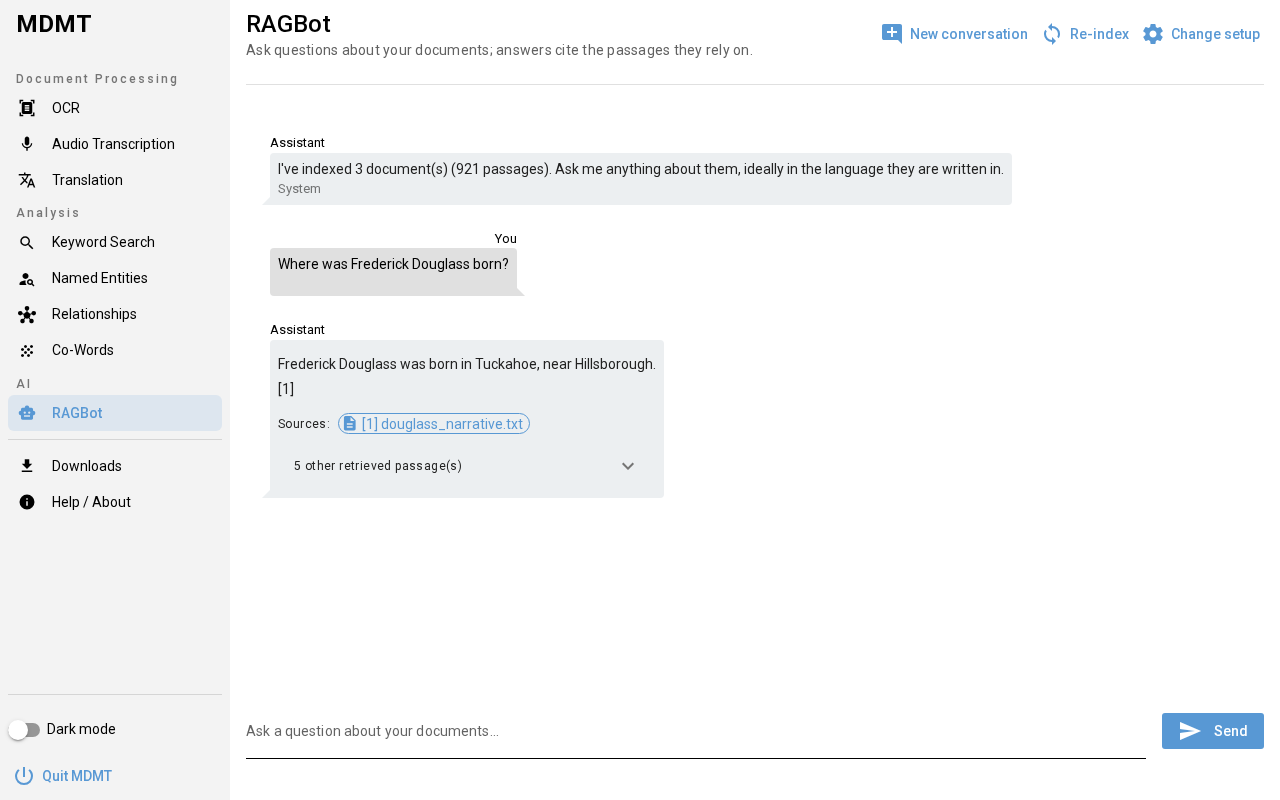
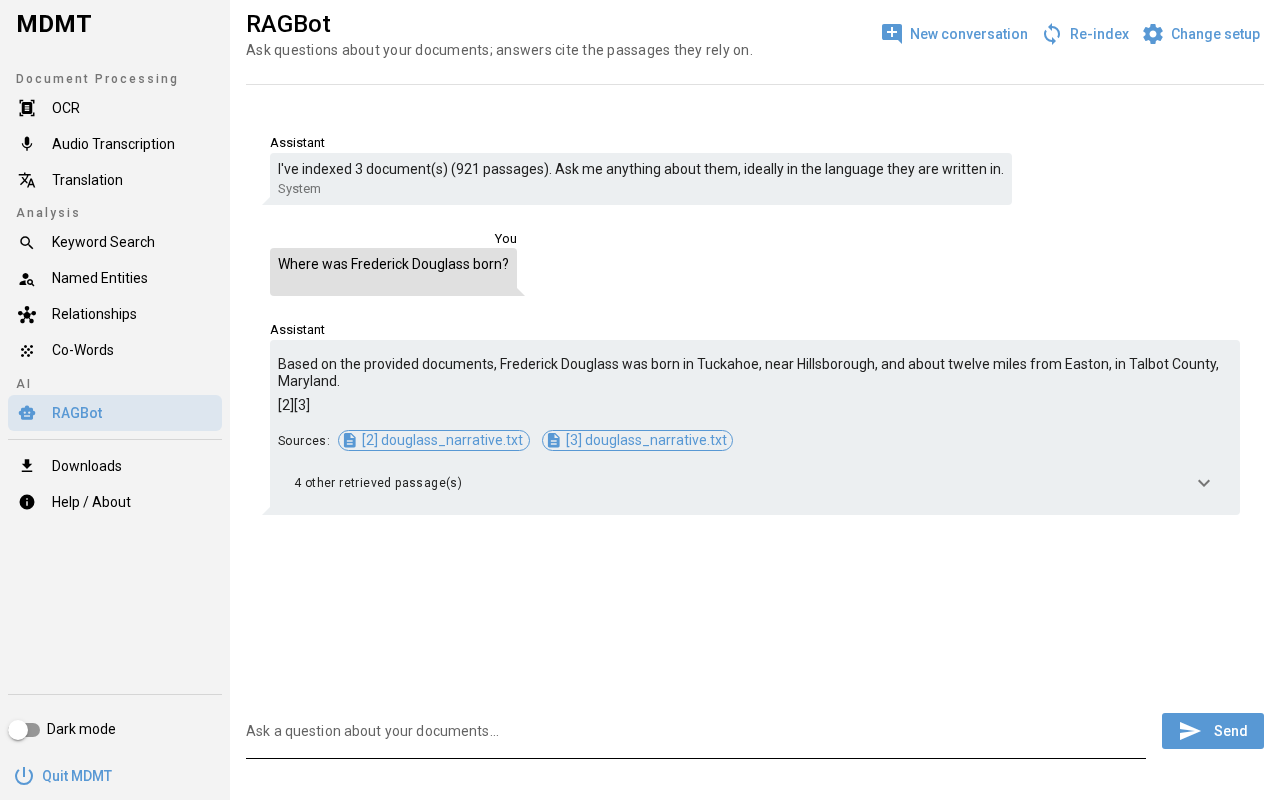
docs: describe the 2B and 4B chat models; README GIF recorded with 2B

Changed region(s): [[0.2188, 0.4375, 0.9688, 0.625]]

diff --git a/pages/about.py b/pages/about.py
@@ -304,9 +304,10 @@ Nothing leaves your computer.
   complex questions.
 - Ask in the language of your documents. A question in another language
   (English about a French text, say) often misses the right passages.
-- The 0.8B model is fast but often gets details wrong. If your computer can
-  run them, the 2B and 4B models from the **Downloads** page answer more
-  accurately.
+- Two chat models are offered. **2B** (1.28 GB) suits any computer from the
+  last few years and runs well without a GPU.
+  **4B** (2.74 GB) is somewhat more accurate but needs a GPU to be quick;
+  MDMT recommends it when it finds one.
         """)
 
     # License
@@ -348,7 +349,7 @@ Nothing leaves your computer.
 |---|---|---|
 | Whisper tiny/base/small/medium, CTranslate2 conversions | MIT | [Systran on Hugging Face](https://huggingface.co/Systran) |
 | Tesseract language data (`tessdata`) | Apache-2.0 | [GitHub](https://github.com/tesseract-ocr/tessdata) |
-| Qwen 3.5 GGUF (0.8B / 2B / 4B) | Apache-2.0 | [unsloth on Hugging Face](https://huggingface.co/unsloth) |
+| Qwen 3.5 GGUF (2B / 4B) | Apache-2.0 | [unsloth on Hugging Face](https://huggingface.co/unsloth) |
 | Argos Translate models (one per language pair) | Varies by model: 59 of 100 state CC-BY 4.0 (derived from OPUS-MT); the rest cite their OPUS training data or state no license. See each model's README. | [Argos Translate](https://github.com/argosopentech/argos-translate) |
 | multilingual-e5-small, ONNX export (RAG retrieval) | MIT | [Hugging Face](https://huggingface.co/intfloat/multilingual-e5-small) |
 | bge-reranker-v2-m3, ONNX export (RAG reranking, optional) | Apache-2.0 | [Hugging Face](https://huggingface.co/BAAI/bge-reranker-v2-m3) |

diff --git a/tests/dev/readme_screenshots.py b/tests/dev/readme_screenshots.py
@@ -1,7 +1,7 @@
 """Capture the README screenshots headlessly (Linux, browser mode).
 
     # in a separate environment with playwright and pillow (and `playwright install chromium`):
-    python tests/dev/readme_screenshots.py --models ~/.local/share/mdmt --llm Qwen3.5-0.8B-Q4_K_M.gguf
+    python tests/dev/readme_screenshots.py --models ~/.local/share/mdmt --llm Qwen3.5-2B-Q4_K_M.gguf
 
 Starts MDMT with a throwaway data folder under /tmp/mdmt-demo (its model
 folders are links to --models, so nothing is downloaded), indexes the eval
@@ -70,7 +70,7 @@ def save_gif(frames, path, width=800):
 def main():
     parser = argparse.ArgumentParser(description=__doc__.splitlines()[0])
     parser.add_argument("--models", required=True, help="an MDMT data folder with downloaded models (…/mdmt)")
-    parser.add_argument("--llm", default="Qwen3.5-0.8B-Q4_K_M.gguf")
+    parser.add_argument("--llm", default="Qwen3.5-2B-Q4_K_M.gguf")
     parser.add_argument("--app-python", default=os.path.join(REPO, ".venv", "bin", "python"))
     args = parser.parse_args()
     from playwright.sync_api import sync_playwright

diff --git a/pages/rag.py b/pages/rag.py
@@ -110,8 +110,8 @@ def _setup_ui(state, on_ready):
                 ui.button("Get a Qwen model", icon="download", on_click=lambda: ui.navigate.to("/downloads")) \
                     .props("flat dense no-caps")
         else:
-            hint("Larger models (2B, 4B) answer more accurately than 0.8B but are slower and need more memory;"
-                 " get them from the Downloads page.")
+            hint("2B suits any recent computer; 4B is more accurate but needs a GPU to be quick. Both are on the"
+                 " Downloads page.")
 
     with section("Options"):
         with ui.row().classes("items-center"):

diff --git a/pages/welcome.py b/pages/welcome.py
@@ -33,6 +33,6 @@ on the **Downloads** page:
 - **Translation**: one model per language direction, 65–285 MB each
 - **Named entities and relationships**: the multilingual NER model, 182 MB
 - **RAGBot**: retrieval models (135 MB, plus 588 MB for the optional reranker)
-  and a Qwen 3.5 chat model (533 MB to 2.74 GB)
+  and a Qwen 3.5 chat model (1.28 GB, or 2.74 GB for the larger one)
         """)
         ui.button("Open Downloads", icon="download", on_click=lambda: ui.navigate.to("/downloads")).props("outline")

diff --git a/README.md b/README.md
@@ -22,7 +22,7 @@ MDMT is a desktop application that provides researchers, scholars, and digital h
 - **Co-Word Analysis**: Generate word co-occurrence networks to reveal conceptual relationships
 
 ### AI Integration
-- **RAGBot**: Ask questions about a folder of documents and get answers that cite the passages they come from, from a local Qwen 3.5 model. Retrieval combines keyword search with multilingual embeddings and an optional reranker. MDMT auto-detects your hardware (NVIDIA, AMD, and Apple Metal GPUs) and recommends the best model size for your system.
+- **RAGBot**: Ask questions about a folder of documents and get answers that cite the passages they come from, from a local Qwen 3.5 model. Retrieval combines keyword search with multilingual embeddings and an optional reranker. MDMT detects your hardware (NVIDIA, AMD and Apple Metal GPUs) and recommends Qwen 3.5 4B when it can run on a GPU, and 2B otherwise.
 
 <p align="center"><img src="docs/images/ragbot.gif" alt="RAGBot answering a question about Frederick Douglass's Narrative and citing its source" width="800"></p>
 
